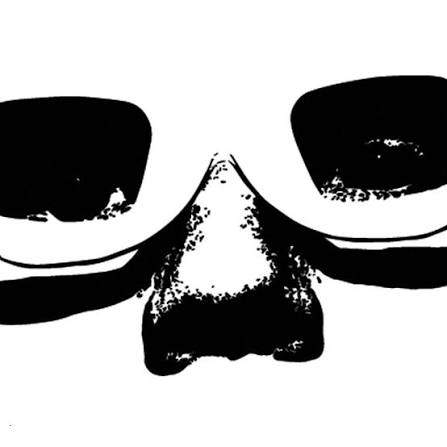
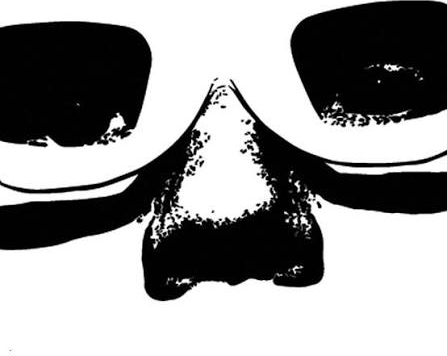
Minimal pass: rendered UCB wordmark, no fields, captionless QR
- logo.png is now drawn at build time: heavy red "UCB" with small
  letter-spaced "STUDENT ID" beneath, replacing logoText
- all pass fields removed (empty generic primaryFields)
- barcode altText dropped, so the QR panel is just the code
- skull art white-trimmed and drawn tighter (5% inset) so the face reads
  larger in the tile

The QR itself renders at Wallet's fixed size for the format; removing the
caption and fields is the available lever.

diff --git a/ios/UCBShows/Services/WalletPass.swift b/ios/UCBShows/Services/WalletPass.swift
@@ -100,6 +100,9 @@ enum WalletPass {
         for (name, side) in [("thumbnail.png", 90.0), ("thumbnail@2x.png", 180.0), ("thumbnail@3x.png", 270.0)] {
             files[name] = thumbnailPNG(side: side)
         }
+        for (name, scale) in [("logo.png", 1.0), ("logo@2x.png", 2.0), ("logo@3x.png", 3.0)] {
+            files[name] = logoPNG(scale: scale)
+        }
 
         // manifest.json: SHA-1 of every file (the v1 pass format's digest).
         let manifest = files.mapValues { Insecure.SHA1.hash(data: $0).map { String(format: "%02x", $0) }.joined() }
@@ -136,16 +139,16 @@ enum WalletPass {
             ["latitude": $0.latitude, "longitude": $0.longitude,
              "relevantText": "You’re near \($0.name) — show your UCB Student ID at the door."]
         }
-        // Near-black card with UCB-red labels: modern, high contrast, and the
-        // white QR panel pops against it at the door.
-        var pass: [String: Any] = [
+        // Minimal near-black card: the rendered logo (big UCB, small STUDENT ID
+        // beneath) top left, the skull tile top right, the QR below. No fields,
+        // no barcode caption — Wallet renders the QR at its own fixed size.
+        let pass: [String: Any] = [
             "formatVersion": 1,
             "passTypeIdentifier": identity.passTypeIdentifier,
             "teamIdentifier": identity.teamIdentifier,
             "serialNumber": "ucb-student-id-\(serial)",
             "organizationName": "Improv",
             "description": "UCB Student ID",
-            "logoText": "UCB",
             "foregroundColor": "rgb(255,255,255)",
             "backgroundColor": "rgb(17,17,20)",
             "labelColor": "rgb(235,75,95)",
@@ -153,21 +156,10 @@ enum WalletPass {
                 "format": "PKBarcodeFormatQR",
                 "message": payload,
                 "messageEncoding": "iso-8859-1",
-                "altText": "UCB Student ID",
             ]],
             "locations": locations,
             "maxDistance": 300,
-        ]
-        // No header fields: the skull thumbnail owns the top right of the card.
-        var primary: [[String: Any]] = []
-        if let name = ticket.name, !name.isEmpty {
-            primary.append(["key": "name", "label": "STUDENT ID", "value": name.capitalized])
-        }
-        pass["generic"] = [
-            "primaryFields": primary,
-            "secondaryFields": [
-                ["key": "entry", "label": "ENTRY", "value": "Free student ticket"],
-            ],
+            "generic": ["primaryFields": [[String: Any]]()],
         ]
         return (try? JSONSerialization.data(withJSONObject: pass)) ?? Data()
     }
@@ -209,8 +201,8 @@ enum WalletPass {
         return image.pngData() ?? Data()
     }
 
-    /// Square thumbnail shown on the card's top right: UCB's skull face (from
-    /// the site logo, bundled as ucb_skull.png) on a white rounded tile.
+    /// Square thumbnail shown on the card's top right: the UCB skull face
+    /// (Salim's art, white-trimmed) filling a white rounded tile.
     private static func thumbnailPNG(side: CGFloat) -> Data {
         let size = CGSize(width: side, height: side)
         let renderer = UIGraphicsImageRenderer(size: size)
@@ -220,14 +212,33 @@ enum WalletPass {
             UIColor.white.setFill()
             UIBezierPath(rect: rect).fill()
             guard let art = UIImage(named: "ucb_skull") else { return }
-            // Aspect-fit with a small margin, centered.
-            let inset = side * 0.10
+            // Aspect-fit tight to the tile so the face reads large.
+            let inset = side * 0.05
             let box = rect.insetBy(dx: inset, dy: inset)
             let scale = min(box.width / art.size.width, box.height / art.size.height)
             let drawSize = CGSize(width: art.size.width * scale, height: art.size.height * scale)
             art.draw(in: CGRect(x: rect.midX - drawSize.width / 2,
                                 y: rect.midY - drawSize.height / 2,
                                 width: drawSize.width, height: drawSize.height))
+        }
+        return image.pngData() ?? Data()
+    }
+
+    /// Rendered wordmark for the pass header: prominent "UCB" with a small,
+    /// letter-spaced "STUDENT ID" beneath it.
+    private static func logoPNG(scale: CGFloat) -> Data {
+        let size = CGSize(width: 160 * scale, height: 50 * scale)
+        let renderer = UIGraphicsImageRenderer(size: size)
+        let image = renderer.image { _ in
+            NSAttributedString(string: "UCB", attributes: [
+                .font: UIFont.systemFont(ofSize: 30 * scale, weight: .heavy),
+                .foregroundColor: UIColor(red: 235 / 255, green: 75 / 255, blue: 95 / 255, alpha: 1),
+            ]).draw(at: CGPoint(x: 0, y: 0))
+            NSAttributedString(string: "STUDENT ID", attributes: [
+                .font: UIFont.systemFont(ofSize: 10 * scale, weight: .semibold),
+                .foregroundColor: UIColor.white.withAlphaComponent(0.9),
+                .kern: 2.4 * scale,
+            ]).draw(at: CGPoint(x: 1.5 * scale, y: 37 * scale))
         }
         return image.pngData() ?? Data()
     }
